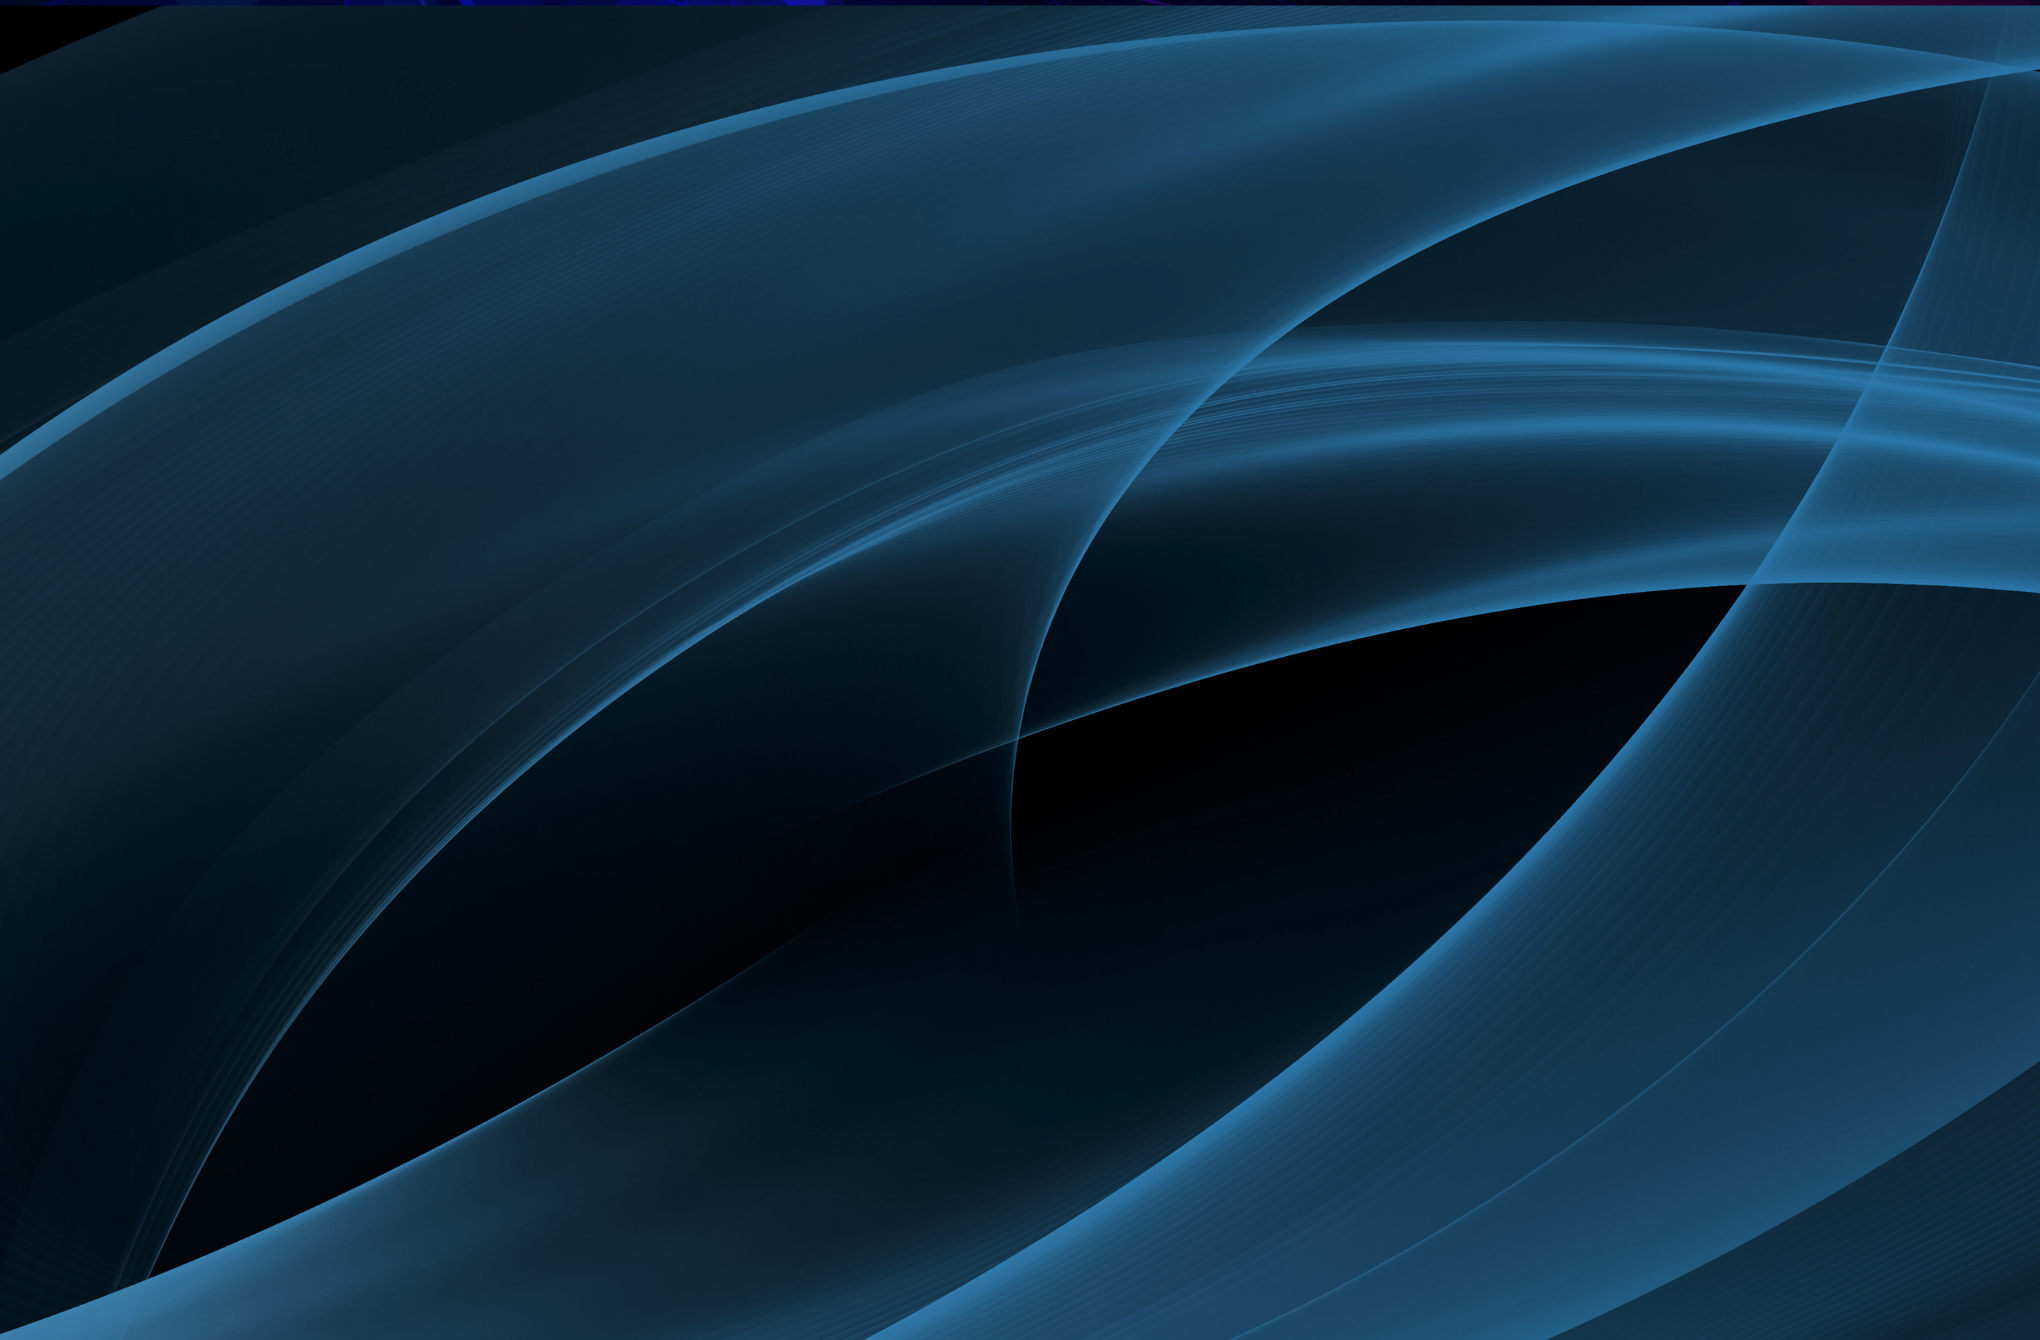
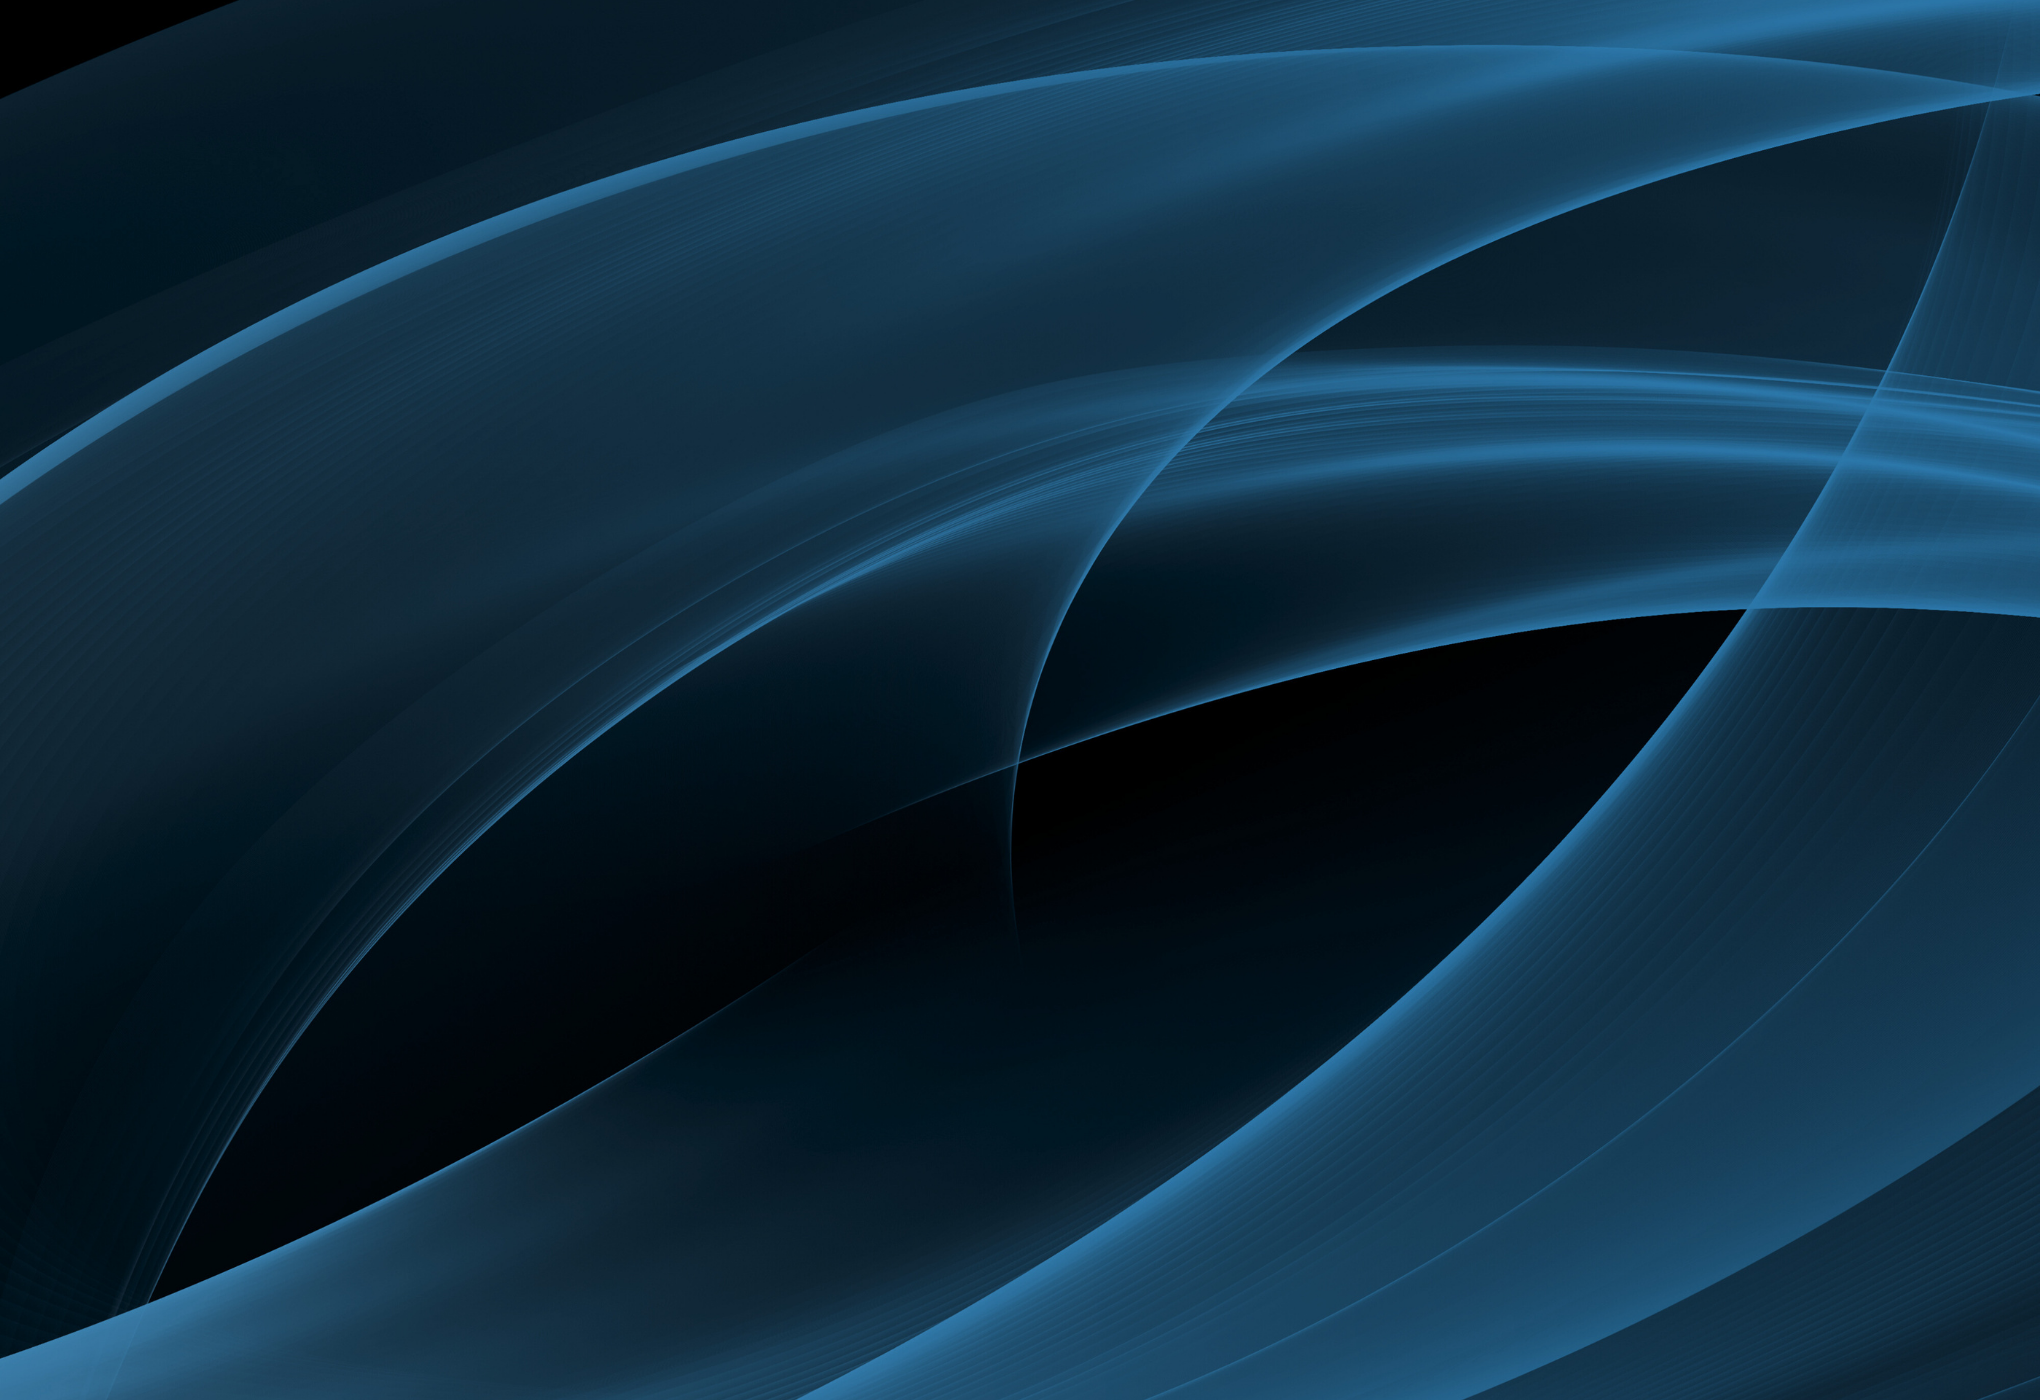
Fix

diff --git a/styles.css b/styles.css
@@ -85,7 +85,7 @@ body {
     line-height: 1.6;
     color: #ffffff;
     background: url('Lataukset/hero.png') center/cover no-repeat fixed;
-    background-color: #667eea;
+    background-color: #1a1a1a;
     margin: 0;
     padding: 0;
     width: 100%;
@@ -1199,7 +1199,7 @@ a {
 
 @media (max-width: 768px) {
     body {
-        background-image: url('Lataukset/heromobile.png');
+        background-image: url('Lataukset/heromobibig.png');
         background-size: cover;
         background-position: center center;
         background-attachment: fixed;
@@ -1212,7 +1212,7 @@ a {
 @media (max-width: 768px) and (-webkit-min-device-pixel-ratio: 2),
        (max-width: 768px) and (min-resolution: 192dpi) {
     body {
-        background-image: url('Lataukset/heromobile.png');
+        background-image: url('Lataukset/heromobibig.png');
         background-size: cover;
     }
     
@@ -1334,7 +1334,7 @@ a {
 
 @media (max-width: 480px) {
     body {
-        background-image: url('Lataukset/heromobile.png');
+        background-image: url('Lataukset/heromobibig.png');
         background-size: cover;
         background-position: center center;
         background-attachment: fixed;
@@ -1347,7 +1347,7 @@ a {
 @media (max-width: 480px) and (-webkit-min-device-pixel-ratio: 2),
        (max-width: 480px) and (min-resolution: 192dpi) {
     body {
-        background-image: url('Lataukset/heromobile.png');
+        background-image: url('Lataukset/heromobibig.png');
         background-size: cover;
     }
     
